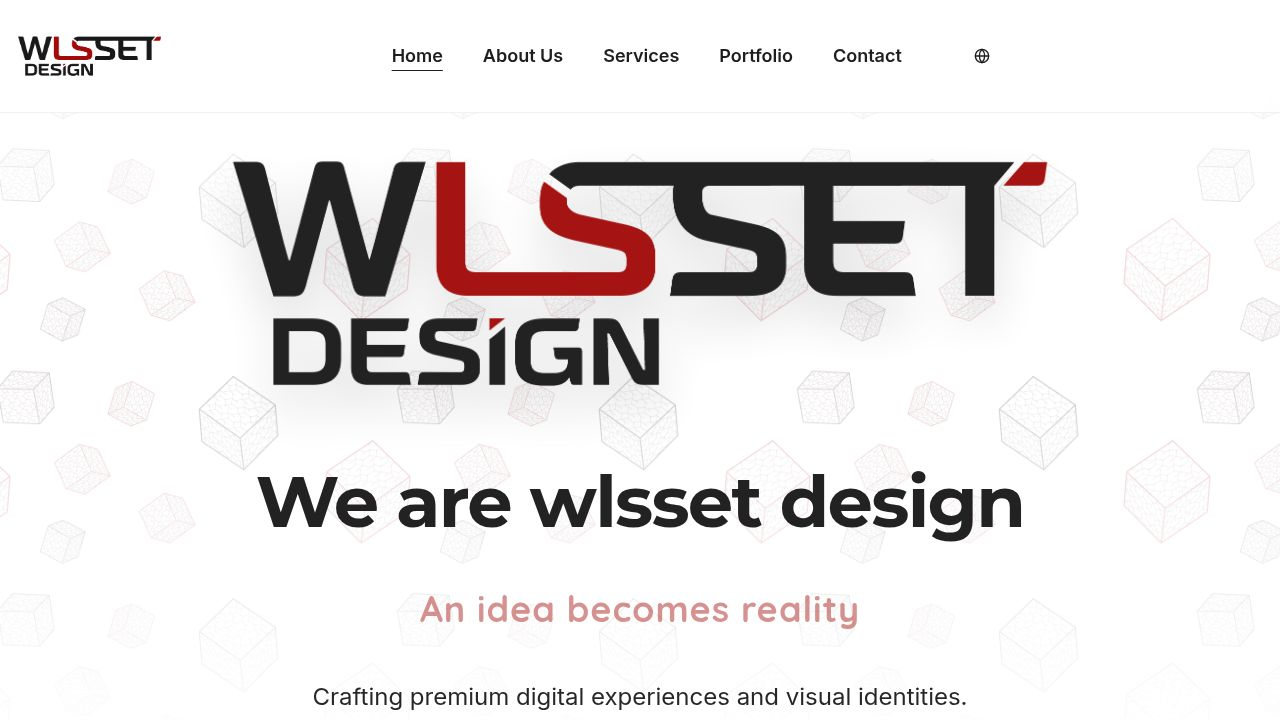
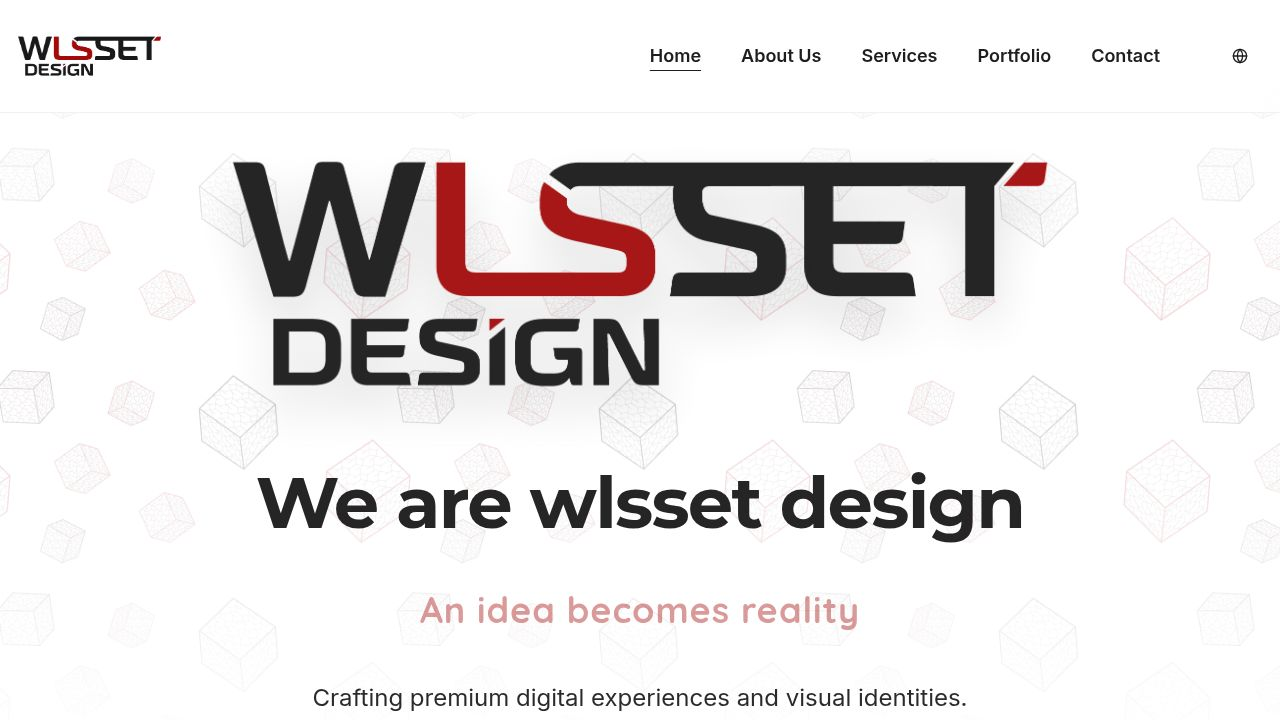
Remove the "Request a Project" button from the navigation bar
Delete the Link and Button component rendering the "Request a Project" CTA from the desktop Navbar, resolving a UI overflow artifact.

Replit-Commit-Author: Agent
Replit-Commit-Session-Id: ac3d876b-a713-4e1f-8c6f-10c8518c4c64
Replit-Commit-Checkpoint-Type: full_checkpoint
Replit-Commit-Event-Id: 2f453cf2-1767-43f6-a2fd-78b2668eb4da
Replit-Commit-Screenshot-Url: https://storage.googleapis.com/screenshot-production-us-central1/71fbc351-6bea-450e-a02c-e2fa0099b8e3/ac3d876b-a713-4e1f-8c6f-10c8518c4c64/6OF8qNj
Replit-Helium-Checkpoint-Created: true

diff --git a/client/src/components/layout/Navbar.tsx b/client/src/components/layout/Navbar.tsx
@@ -59,12 +59,6 @@ export function Navbar() {
               <span className="sr-only">Toggle Language</span>
             </Button>
           </div>
-
-          <Link href="/contact">
-            <Button className="font-bold text-lg px-8 py-6 bg-primary hover:bg-primary/90 text-white rounded-full">
-              {t("hero.cta")}
-            </Button>
-          </Link>
         </div>
 
         {/* Mobile Nav */}